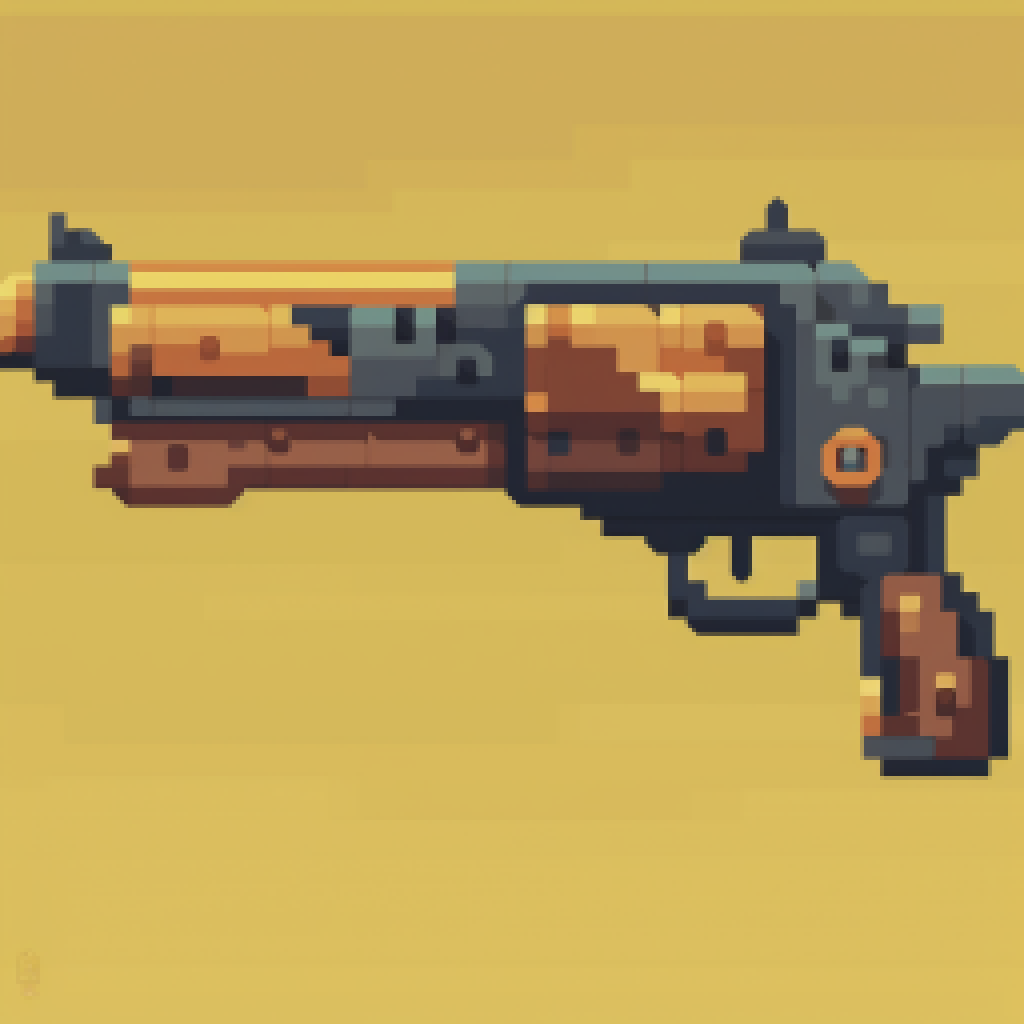
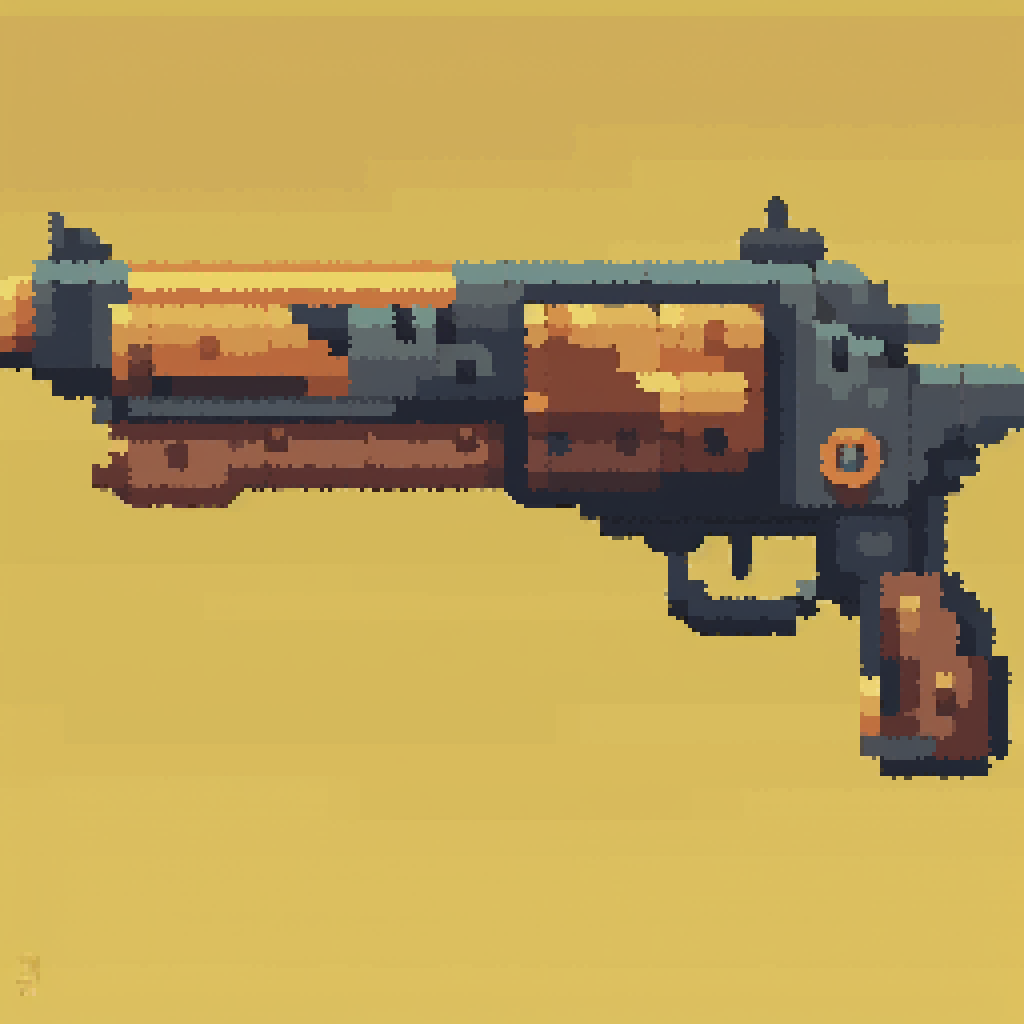
feat: add majority alg

diff --git a/src/index.ts b/src/index.ts
@@ -48,7 +48,58 @@ const getMeanOfColors = (pixels: Array<Pixel>): Pixel => {
 
   return [red, green, blue, alpha];
 };
-// input: a jpeg
+
+interface MajorityColorData {
+  color: Pixel;
+  occurences: number;
+}
+
+const compareWithTolerance = (
+  val: number,
+  val2: number,
+  tolerance: number
+): boolean => {
+  return val + tolerance > val2 && val2 > val - tolerance;
+};
+
+const comparePixelPredicate = (
+  pix: Pixel,
+  pix2: Pixel,
+  tolerance: number
+): boolean => {
+  return (
+    compareWithTolerance(pix[0], pix2[0], tolerance) &&
+    compareWithTolerance(pix[1], pix2[1], tolerance) &&
+    compareWithTolerance(pix[2], pix2[2], tolerance) &&
+    compareWithTolerance(pix[3], pix2[3], tolerance)
+  );
+};
+
+const getMajorityColor = (pixels: Array<Pixel>, tolerance = 1): Pixel => {
+  // TODO: write this shit performantly instead of like this
+  const colorsAndOccurences = pixels.reduce((acc, pixel) => {
+    const found = acc.find((pixOccurData) =>
+      comparePixelPredicate(pixOccurData.color, pixel, tolerance)
+    );
+    if (!!found) {
+      const filteredOut = acc.filter(
+        (pixOccurData) =>
+          !comparePixelPredicate(pixOccurData.color, pixel, tolerance)
+      );
+      return [{ ...found, occurences: found.occurences + 1 }, ...filteredOut];
+    }
+    return [...acc, { color: pixel, occurences: 1 }];
+  }, [] as Array<MajorityColorData>);
+
+  const majority = colorsAndOccurences.reduce((acc, pixOccurData, index) => {
+    if (index === 0) return pixOccurData;
+    return acc.occurences > pixOccurData.occurences ? acc : pixOccurData;
+  }, {} as MajorityColorData);
+
+  return majority.color;
+};
+
+// input: a png
 
 // algorithm ideas:
 //  - take the most prevalent color and make it the main
@@ -63,9 +114,16 @@ const getMeanOfColors = (pixels: Array<Pixel>): Pixel => {
 //
 
 const Strategies = Object.freeze({
+  // take the color that takes the majority of the block
   MAJORITY: "majority",
+  // just take the mean out of colors in the current block
   MEAN: "mean",
-  MAJORITYWITHIGNORE: "majorityWithIgnore",
+  // take the color only if it is present for over X% of the image, otherwise take mean
+  ALG50: "ALG50",
+  ALG60: "ALG60",
+  ALG70: "ALG70",
+  ALG80: "ALG80",
+  ALG90: "ALG90",
 } as const);
 
 type StrategiesType = (typeof Strategies)[keyof typeof Strategies];
@@ -73,7 +131,7 @@ type StrategiesType = (typeof Strategies)[keyof typeof Strategies];
 const fix = (
   outPixWidth: number,
   outPixHeight: number,
-  strategy: StrategiesType = Strategies.MAJORITYWITHIGNORE
+  strategy: StrategiesType
 ) => {
   const png = loadPng("./test3.png");
 
@@ -158,8 +216,16 @@ const fix = (
         blocks[bI] = new Array(block.length).fill(mean);
         break;
       case Strategies.MAJORITY:
+        // if the color is +/- tolerance value we treat it the same
+        // e.g. 111,111,111,255 would equal 112,112,112,255 if tolerance > 1.
+        // This is to account for potential export discrepancies
+        // TODO: make it inputtable?
+        const tolerance = 1;
+        const majorityColor = getMajorityColor(block, tolerance);
+
+        blocks[bI] = new Array(block.length).fill(majorityColor);
         break;
-      case Strategies.MAJORITYWITHIGNORE:
+      case Strategies.ALG50:
         break;
     }
   }
@@ -200,4 +266,4 @@ const fix = (
   savePng(png, "./test1out.png");
 };
 
-fix(4, 4, Strategies.MEAN);
+fix(4, 4, Strategies.MAJORITY);
